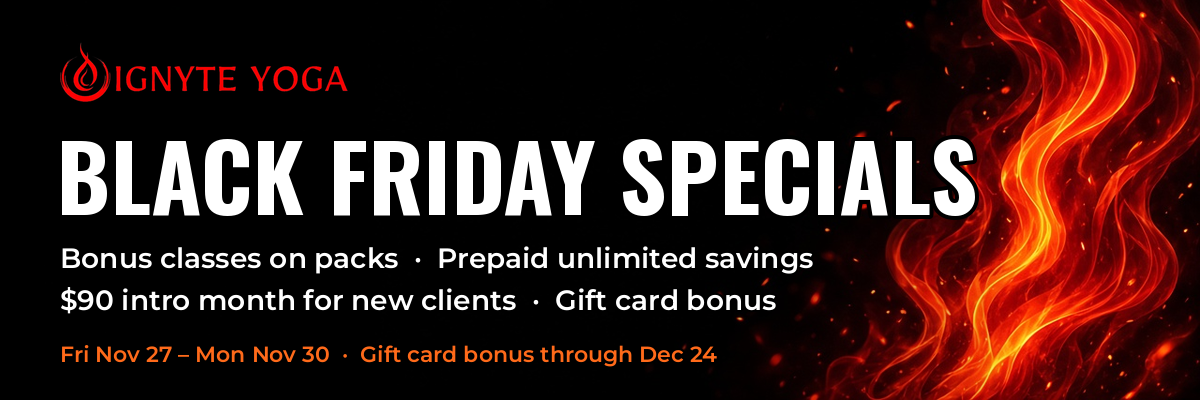
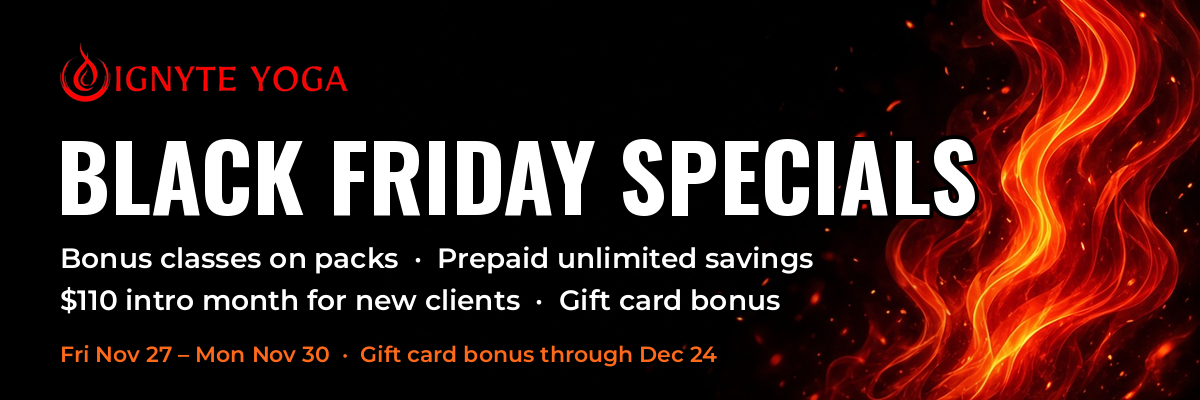
Restore the $110 Black Friday header and offer sheet.
The corrected graphics replace the temporary text hero. The all-offers image hides with the sale after November 30.

Changed region(s): [[0.0617, 0.72, 0.4317, 0.78], [0.4625, 0.72, 0.6475, 0.78]]

diff --git a/src/pages/black-friday.html b/src/pages/black-friday.html
@@ -14,17 +14,17 @@
     Preview with ?bfdate=2026-12-01 (gift card only) or ?bfdate=2026-12-25 (ended).
   -->
   <div data-bf-page>
-    <!-- black-friday-header.png is off the page until marketing regenerates it. That file prints "$90 intro month". -->
-    <section class="section theme-dark bf-text-hero">
-      <div class="narrow center">
-        <h1>Black Friday at Ignyte</h1>
-        <p class="bf-dates" data-show-until="2026-12-25T00:00:00-06:00">Sale Fri Nov 27 - Mon Nov 30 · Gift card bonus through Dec 24</p>
-      </div>
+    <section class="bf-hero" data-show-until="2026-12-25T00:00:00-06:00">
+      <img src="/assets/source/images/black-friday-header.png" alt="Ignyte Yoga Black Friday specials banner. Bonus classes on packs, prepaid unlimited savings, a $110 intro month for new clients, and a gift card bonus. Sale Friday November 27 through Monday November 30. Gift card bonus through December 24." width="1200" height="400" sizes="100vw" loading="eager" fetchpriority="high">
     </section>
 
     <section class="section">
+      <div class="narrow center">
+        <h1>Black Friday at Ignyte</h1>
+      </div>
       <div data-bf-live>
         <div class="narrow center">
+          <p class="bf-dates">Sale Fri Nov 27 - Mon Nov 30 · Gift card bonus through Dec 24</p>
           <p data-show-until="2026-12-01T00:00:00-06:00">Our Black Friday specials are here, Fri Nov 27 - Mon Nov 30. Lock in months of hot classes, stock up on packs with free bonus classes, give a gift card with bonus credit, or bring a friend who's new to us for their first month.</p>
           <p data-show-from="2026-12-01T00:00:00-06:00" data-show-until="2026-12-25T00:00:00-06:00" hidden>The gift card bonus is still on through Dec 24. Buy a $100 gift card, get a $20 bonus credit, or buy $200 and get a $50 bonus credit.</p>
           <p class="note" data-show-until="2026-12-01T00:00:00-06:00">The studio is closed Thanksgiving, Thursday, Nov 26.</p>
@@ -39,7 +39,7 @@
             <h2>Intro Month</h2>
             <p class="bf-kicker">New clients only</p>
             <p class="bf-price">$110</p>
-            <p class="bf-detail">$110 for 30 days unlimited. New clients only. Regular $190, save $80.</p>
+            <p class="bf-detail">$110 for 30 days unlimited (save $80 vs $190 month-to-month).</p>
             <a class="btn" href="https://go.mindbodyonline.com/book/app/pricing/bus_11Lfu6UU5eS1EiQoY/po_11Lfu6UU5eS1EZJkS" target="_blank" rel="noopener" aria-label="Buy Intro Month">Buy</a>
           </article>
 
@@ -81,8 +81,10 @@
           </article>
         </div>
 
-        <!-- all-offers graphic (assets/source/images/black-friday-offers.png) is off the page until marketing regenerates it. That file prints Intro Month at $90. -->
         <div class="wrap bf-figures">
+          <figure data-show-until="2026-12-01T00:00:00-06:00">
+            <img src="/assets/source/images/black-friday-offers.png" alt="Ignyte Yoga Black Friday offer list: Intro Month $110 for new clients, save $80 versus $190 a month, 6-month unlimited $799, annual unlimited $1,500, 10-class pack plus 3 free for $220, 20-class pack plus 5 free for $400, and a gift card bonus." width="1080" height="1350">
+          </figure>
           <figure data-show-until="2026-12-25T00:00:00-06:00">
             <img src="/assets/source/images/black-friday-gift-card.png" alt="Ignyte Yoga gift card bonus: buy a $100 gift card and get $20 extra, or buy a $200 gift card and get $50 extra. Bonus credit is good January 1 through March 31, 2027. Offer through December 24." width="1080" height="1350">
           </figure>

diff --git a/src/styles/site.css b/src/styles/site.css
@@ -512,19 +512,12 @@ button.btn,
   line-height: 1.45;
 }
 
-.bf-text-hero {
-  border-bottom: 3px solid var(--accent);
-  padding-block: 4.2rem 3.2rem;
+.bf-hero {
+  background: #000;
 }
 
-.bf-text-hero h1 {
-  margin-bottom: 0.8rem;
-}
-
-.bf-text-hero .bf-dates {
-  margin: 0;
-  color: white;
-  font-size: clamp(1.05rem, 2.2vw, 1.35rem);
+.bf-hero img {
+  width: 100%;
 }
 
 .bf-dates {
@@ -584,8 +577,7 @@ button.btn,
 
 .bf-figures {
   display: grid;
-  grid-template-columns: minmax(0, 32rem);
-  justify-content: center;
+  grid-template-columns: 1fr 1fr;
   gap: 1.2rem;
   align-items: start;
   margin-top: 2.5rem;
